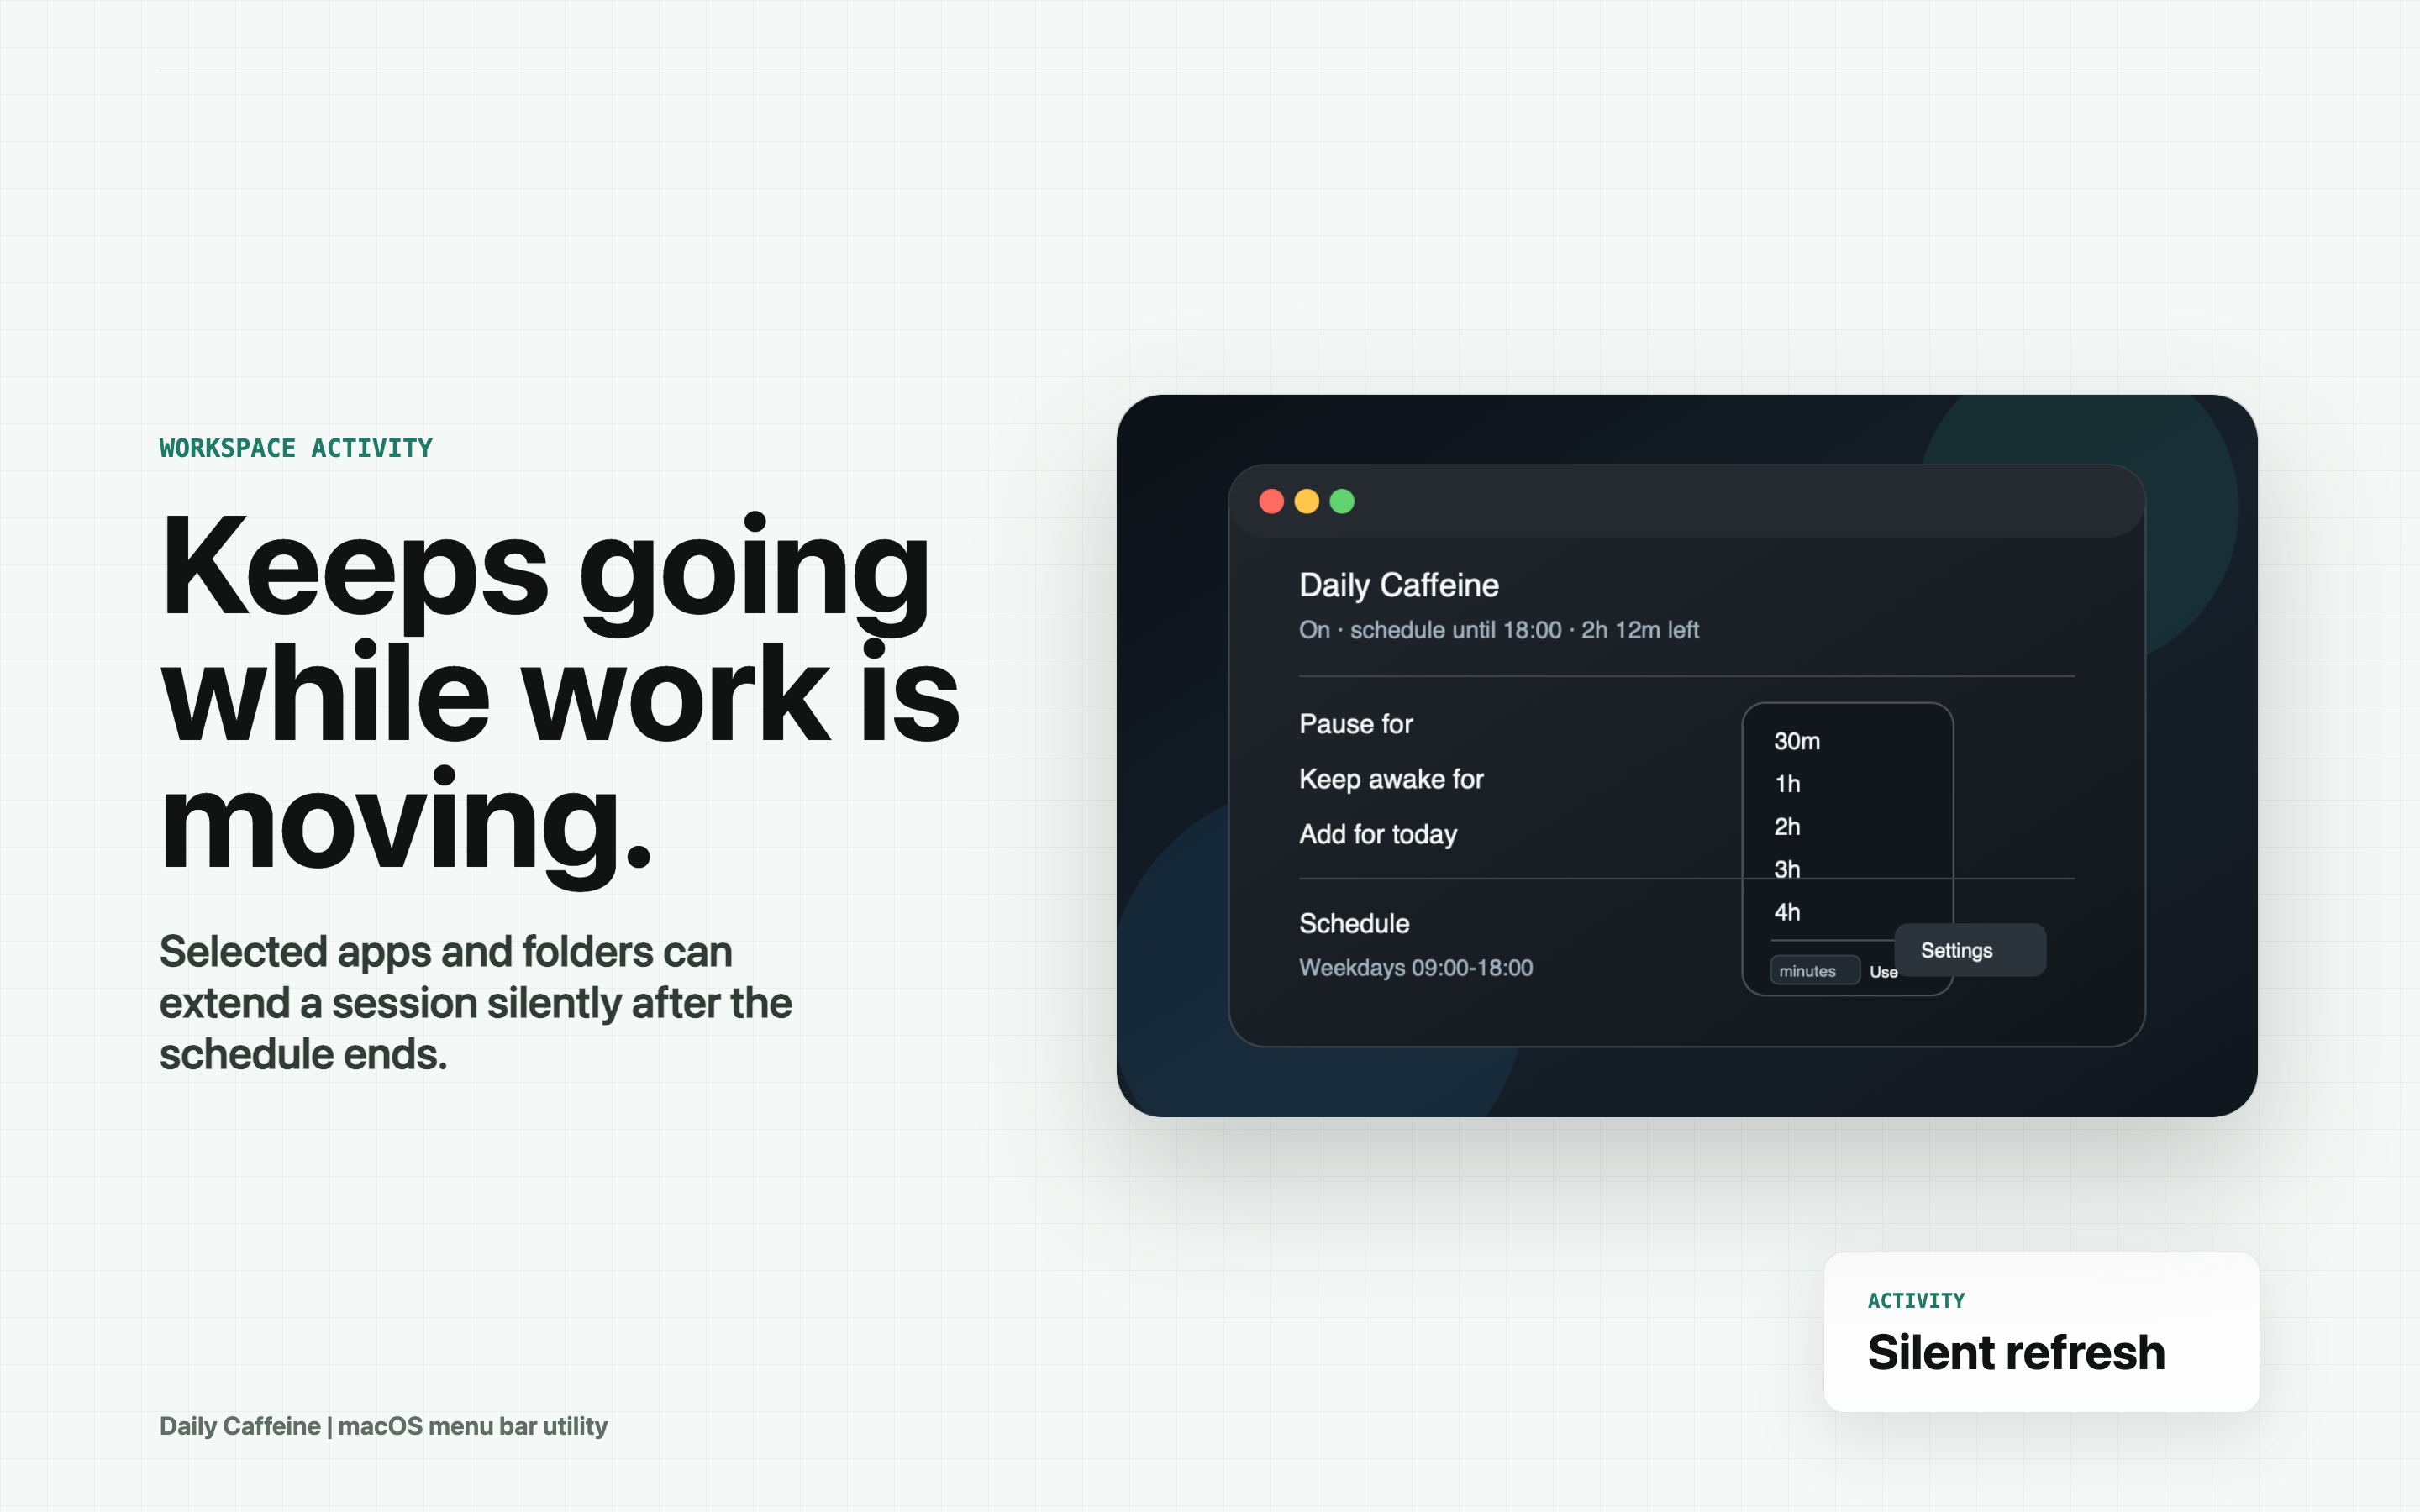
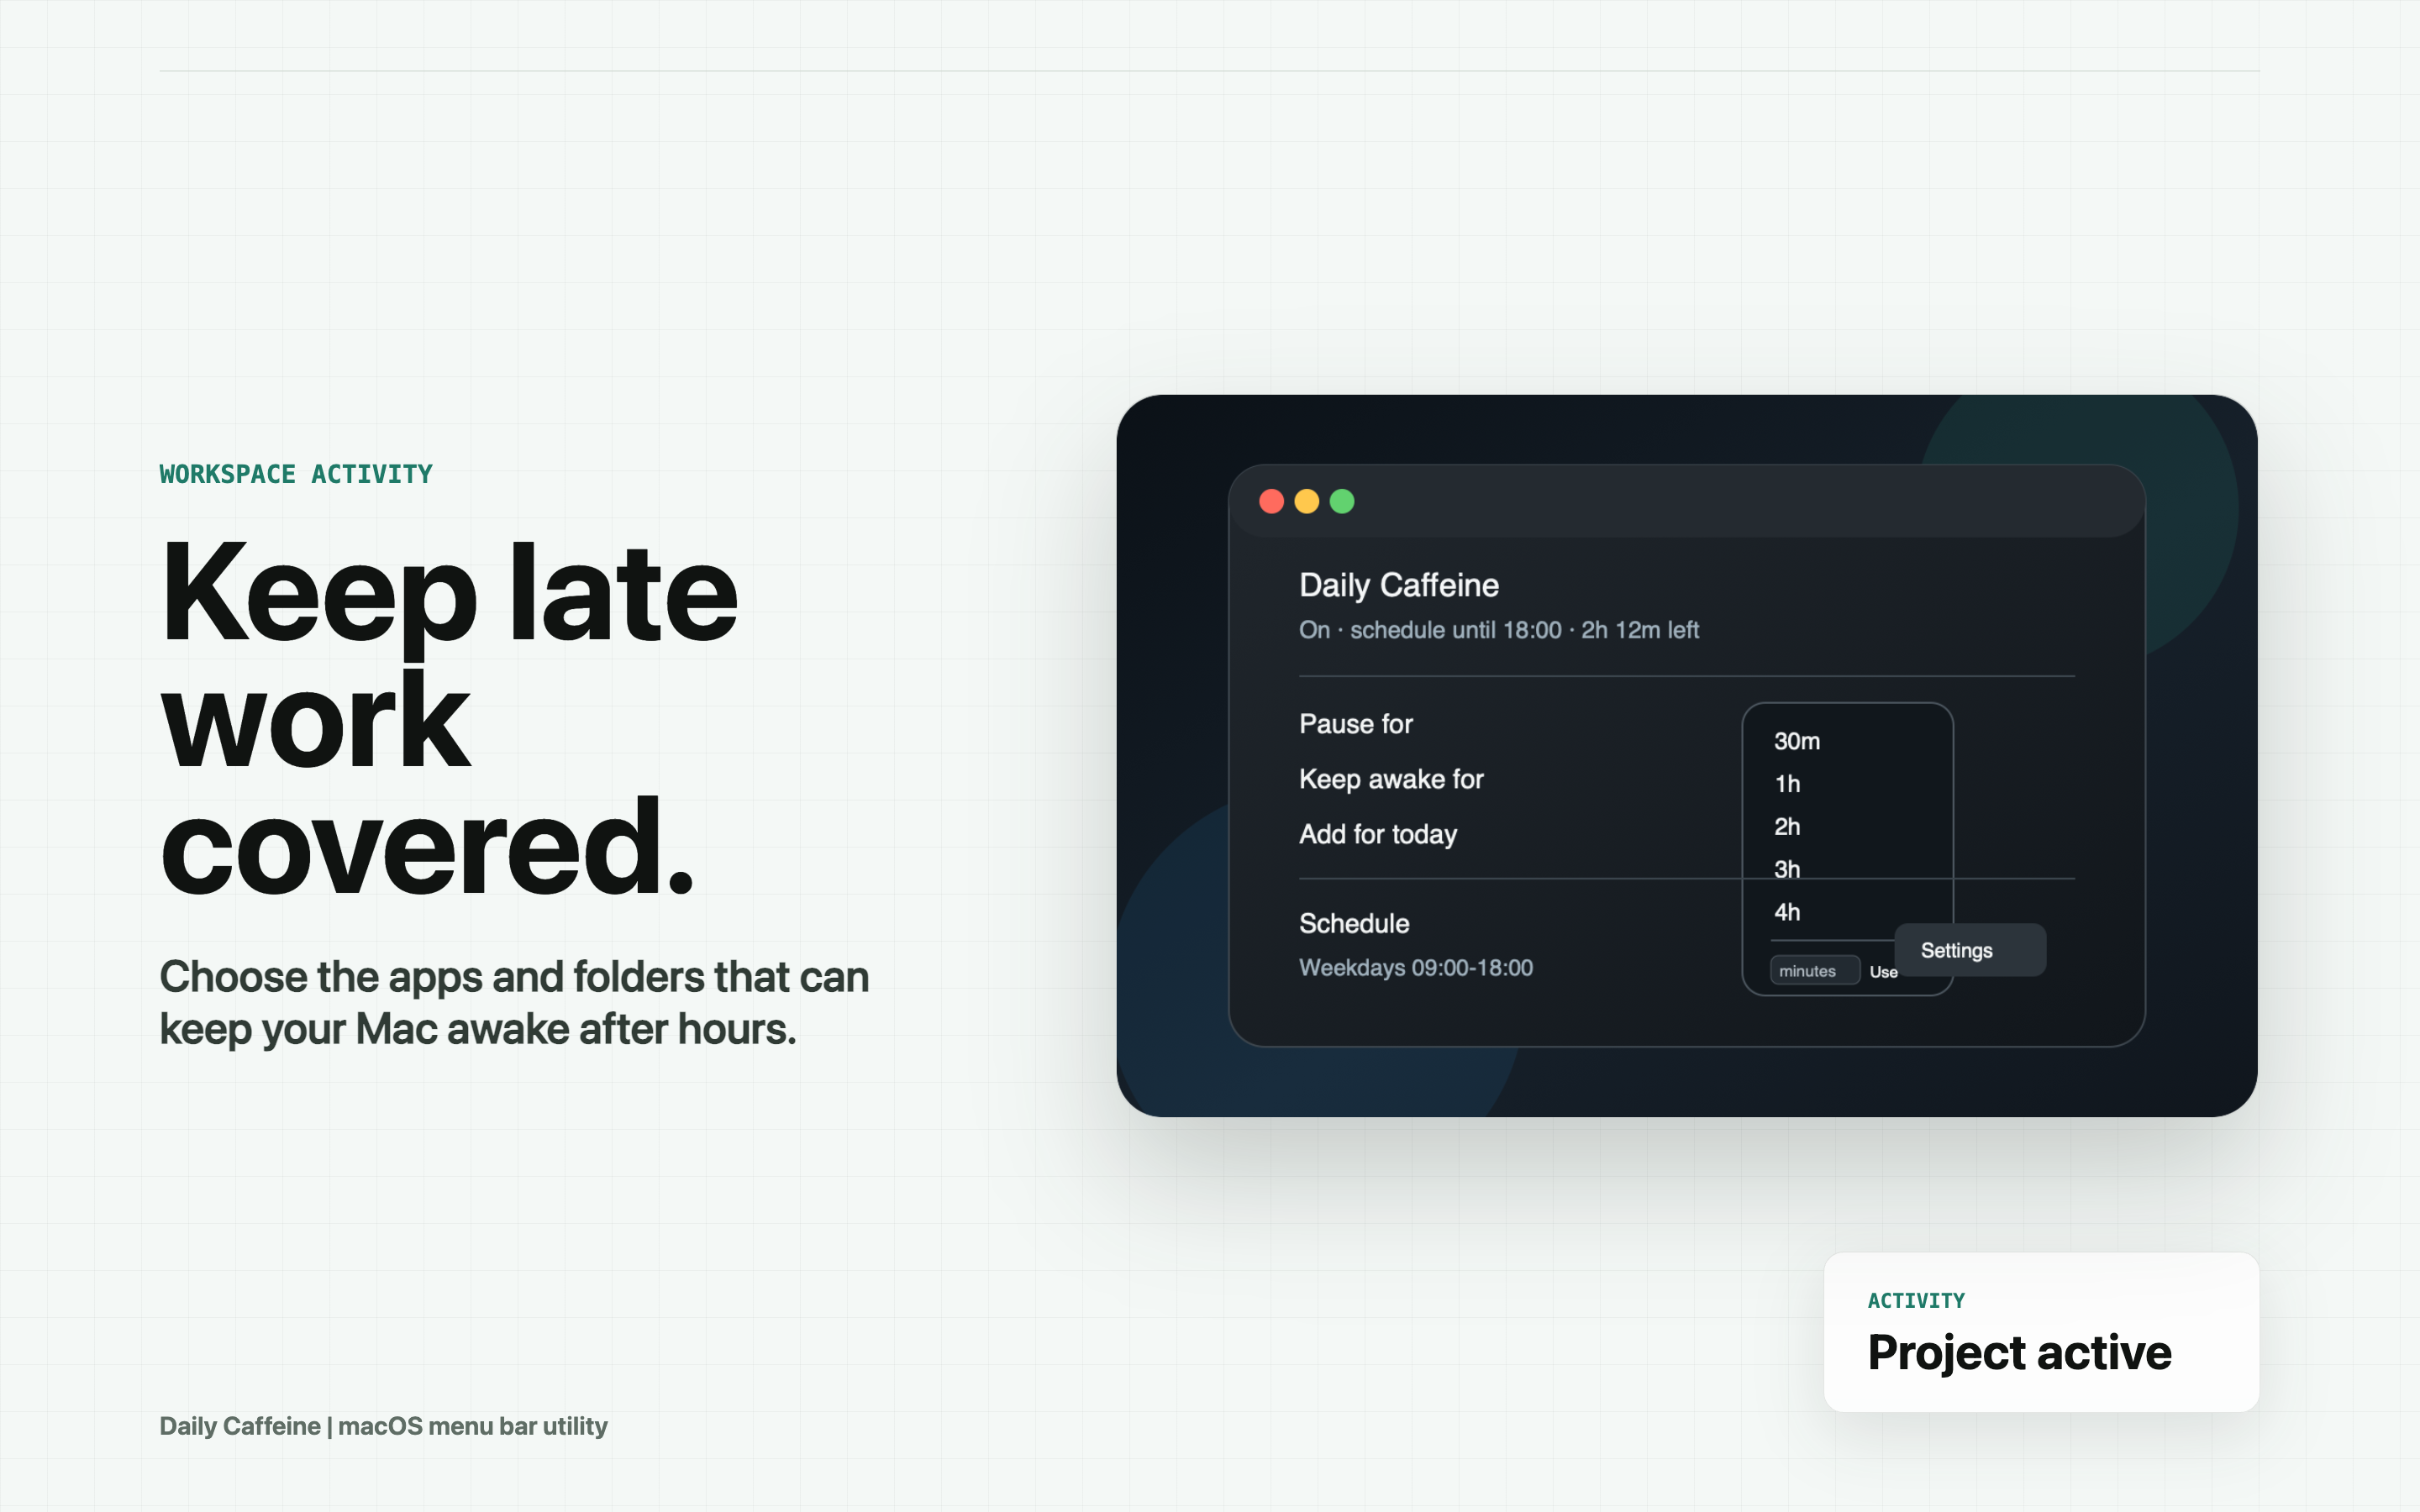
copy: clarify workspace activity positioning

Changed region(s): [[0.0625, 0.28, 0.4062, 0.5911], [0.0625, 0.6222, 0.375, 0.7156], [0.7812, 0.8711, 0.9062, 0.9022]]

diff --git a/index.html b/index.html
@@ -4,18 +4,18 @@
   <meta charset="utf-8">
   <meta name="viewport" content="width=device-width, initial-scale=1">
   <meta name="robots" content="index,follow">
-  <meta name="description" content="Daily Caffeine is a minimal macOS menu bar app that keeps your Mac awake by schedule, manual overrides, or active coding work in selected workspaces.">
+  <meta name="description" content="Daily Caffeine is a minimal macOS menu bar app for work hours, today-only extensions, manual pauses, and active coding projects.">
   <meta name="theme-color" content="#f7f8f5">
   <link rel="canonical" href="https://michaelvd2.github.io/daily-caffeine-site/">
   <link rel="icon" type="image/png" href="assets/app-icon.png">
   <meta property="og:type" content="website">
   <meta property="og:title" content="Daily Caffeine">
-  <meta property="og:description" content="Schedule-based keep-awake control for macOS, with silent Workspace Activity extension for active coding sessions.">
+  <meta property="og:description" content="Schedule-based keep-awake control for macOS, with project-aware keep-awake sessions for selected apps and folders.">
   <meta property="og:url" content="https://michaelvd2.github.io/daily-caffeine-site/">
   <meta property="og:image" content="https://michaelvd2.github.io/daily-caffeine-site/assets/daily-caffeine-preview.png">
   <meta name="twitter:card" content="summary_large_image">
   <meta name="twitter:title" content="Daily Caffeine">
-  <meta name="twitter:description" content="A tiny macOS menu bar app for schedules, pauses, and active workspace keep-awake sessions.">
+  <meta name="twitter:description" content="Set work hours, add time for today, pause when needed, and keep active projects awake after hours.">
   <meta name="twitter:image" content="https://michaelvd2.github.io/daily-caffeine-site/assets/daily-caffeine-preview.png">
   <title>Daily Caffeine - macOS keep-awake menu bar app</title>
   <link rel="stylesheet" href="styles.css">
@@ -26,7 +26,7 @@
     "name": "Daily Caffeine",
     "applicationCategory": "UtilitiesApplication",
     "operatingSystem": "macOS 14 or later",
-    "description": "Daily Caffeine is a minimal macOS menu bar app that keeps a Mac awake by schedule, manual override, or recent workspace activity from selected coding apps.",
+    "description": "Daily Caffeine is a minimal macOS menu bar app for scheduled keep-awake hours, today-only extensions, manual pauses, and selected coding projects.",
     "softwareVersion": "0.1.0",
     "url": "https://michaelvd2.github.io/daily-caffeine-site/",
     "downloadUrl": "https://github.com/michaelvd2/daily-caffeine/releases/latest",
@@ -59,7 +59,7 @@
       <div class="hero-copy">
         <p class="eyebrow">macOS menu bar utility</p>
         <h1 id="hero-title">Daily Caffeine</h1>
-        <p class="hero-lede">Keep your Mac awake during working hours, pause it when you need to, and let active coding work extend the session quietly after the schedule ends.</p>
+        <p class="hero-lede">Keep your Mac awake during working hours, pause it when you need to, and let selected project activity carry a session after the schedule ends.</p>
         <div class="hero-actions" aria-label="Download links">
           <a class="button primary" href="https://github.com/michaelvd2/daily-caffeine/releases/latest">Open private release</a>
           <a class="button secondary" href="#workspace">See how it works</a>
@@ -81,19 +81,19 @@
       </div>
       <div>
         <span class="label">Workspace</span>
-        <strong>Silent refresh</strong>
-        <p>Codex or Claude work can keep the Mac awake after hours.</p>
+        <strong>Project active</strong>
+        <p>Selected apps and folders can keep the Mac awake after hours.</p>
       </div>
     </section>
 
     <section id="workspace" class="split-section">
       <div class="section-heading">
         <p class="eyebrow">Workspace Activity</p>
-        <h2>Stays awake when the work is actually moving.</h2>
+        <h2>Keep late work covered without changing your schedule.</h2>
       </div>
       <div class="section-body">
-        <p>Daily Caffeine can watch folders you choose and selected coding apps, such as Codex or Claude. When the selected app is active and files change inside a selected workspace, the app keeps the Mac awake for the configured grace window.</p>
-        <p>If activity continues, it extends silently. You get a clear start notification with the trigger and workspace, but not a new notification every refresh.</p>
+        <p>Choose the apps and project folders that count as active work. When a selected app is frontmost and files change inside a selected workspace, Daily Caffeine keeps the Mac awake after scheduled hours.</p>
+        <p>Notifications stay clear: the app tells you what started the session, then avoids repeating the same workspace update while the same work continues.</p>
       </div>
     </section>
 

diff --git a/app-store/screenshot-kit.html b/app-store/screenshot-kit.html
@@ -58,15 +58,15 @@
     <section class="shot shot-4" aria-label="Workspace Activity screenshot">
       <div class="copy">
         <p class="kicker">Workspace Activity</p>
-        <h1>Keeps going while work is moving.</h1>
-        <p>Selected apps and folders can extend a session silently after the schedule ends.</p>
+        <h1>Keep late work covered.</h1>
+        <p>Choose the apps and folders that can keep your Mac awake after hours.</p>
       </div>
       <figure class="app-frame">
         <img src="../assets/daily-caffeine-preview.png" alt="Daily Caffeine menu showing active keep-awake status">
       </figure>
       <div class="status-card">
         <span>Activity</span>
-        <strong>Silent refresh</strong>
+        <strong>Project active</strong>
       </div>
     </section>
 

diff --git a/support.html b/support.html
@@ -49,7 +49,7 @@
 
     <section class="document-section">
       <h2>Workspace Activity</h2>
-      <p>Workspace Activity keeps the Mac awake when a selected app is active and files change inside a selected folder. If activity continues, Daily Caffeine extends the keep-awake window silently instead of sending a new notification every refresh.</p>
+      <p>Workspace Activity keeps the Mac awake when a selected app is active and files change inside a selected folder. If the same work continues, Daily Caffeine keeps the session going without repeating the same notification.</p>
     </section>
 
     <section class="document-section">